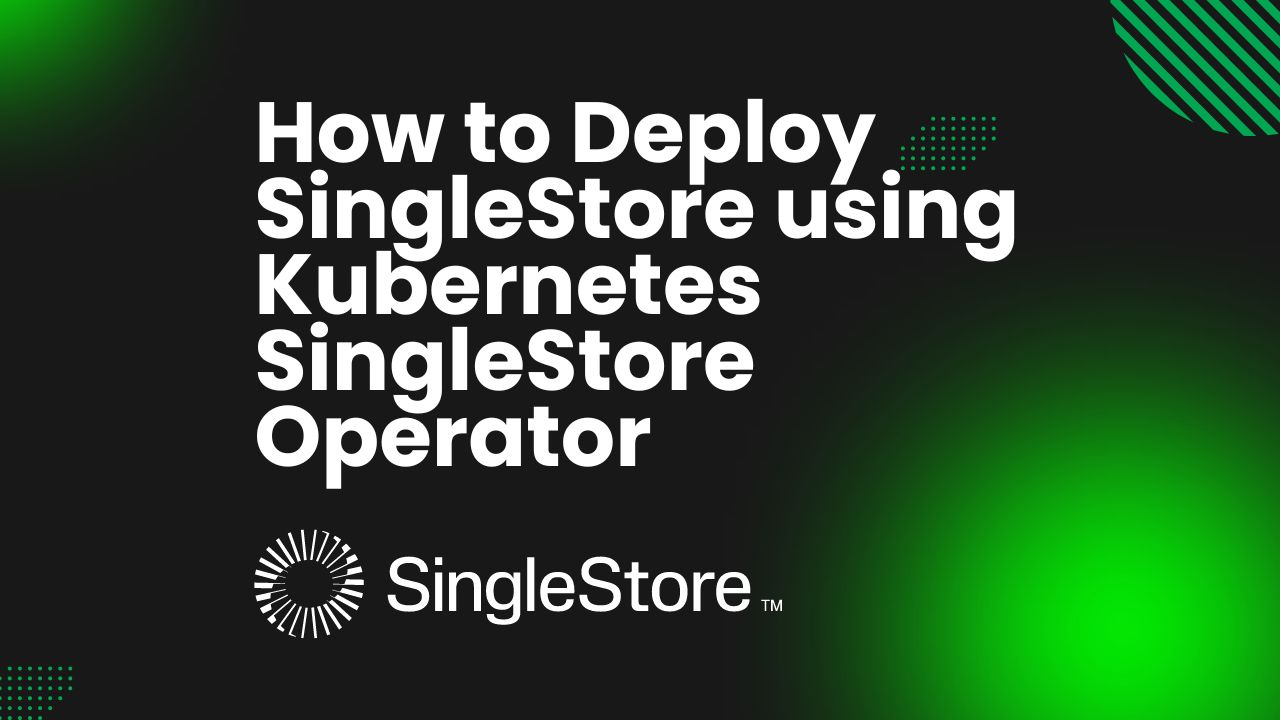
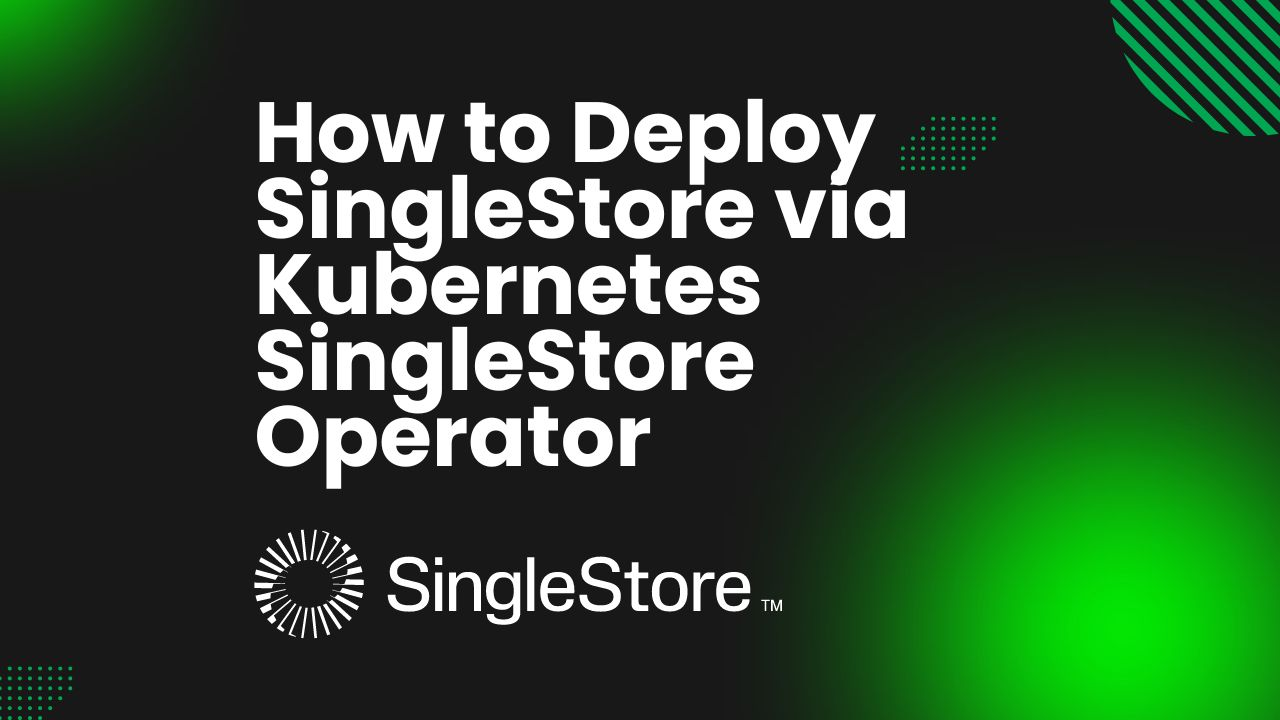
Update title and content

Changed region(s): [[0.5938, 0.2139, 0.8125, 0.3667]]

diff --git a/content/articles/how-to-deploy-single-store-using-kubernetes-single-store-operator/index.md b/content/articles/how-to-deploy-single-store-using-kubernetes-single-store-operator/index.md
@@ -1,11 +1,11 @@
 ---
-title: How to Deploy SingleStore using Kubernetes SingleStore Operator
+title: How to Deploy SingleStore via Kubernetes SingleStore Operator
 Description: Deploy SingleStore on Kubernetes with ease using the Kubernetes SingleStore Operator. Follow this step-by-step guide for a seamless setup.
 alt: Kubernetes SingleStore
 date: "2024-08-07"
 ---
 
-# How to Deploy SingleStore using Kubernetes SingleStore Operator
+# How to Deploy SingleStore via Kubernetes SingleStore Operator
 
 ![Kubernetes SingleStore](./hero.jpg "Kubernetes SingleStore")
 
@@ -79,7 +79,7 @@ $ kubectl create secret generic -n ss-demo license-secret \
 ```
 With the namespace and license secret created, we can now deploy the SingleStore cluster.
 
-## Deploy SingleStore Cluster
+## Deploy SingleStore using Kubernetes SingleStore operator
 
 Here is the yaml of the SingleStore CR we are going to use:
 
